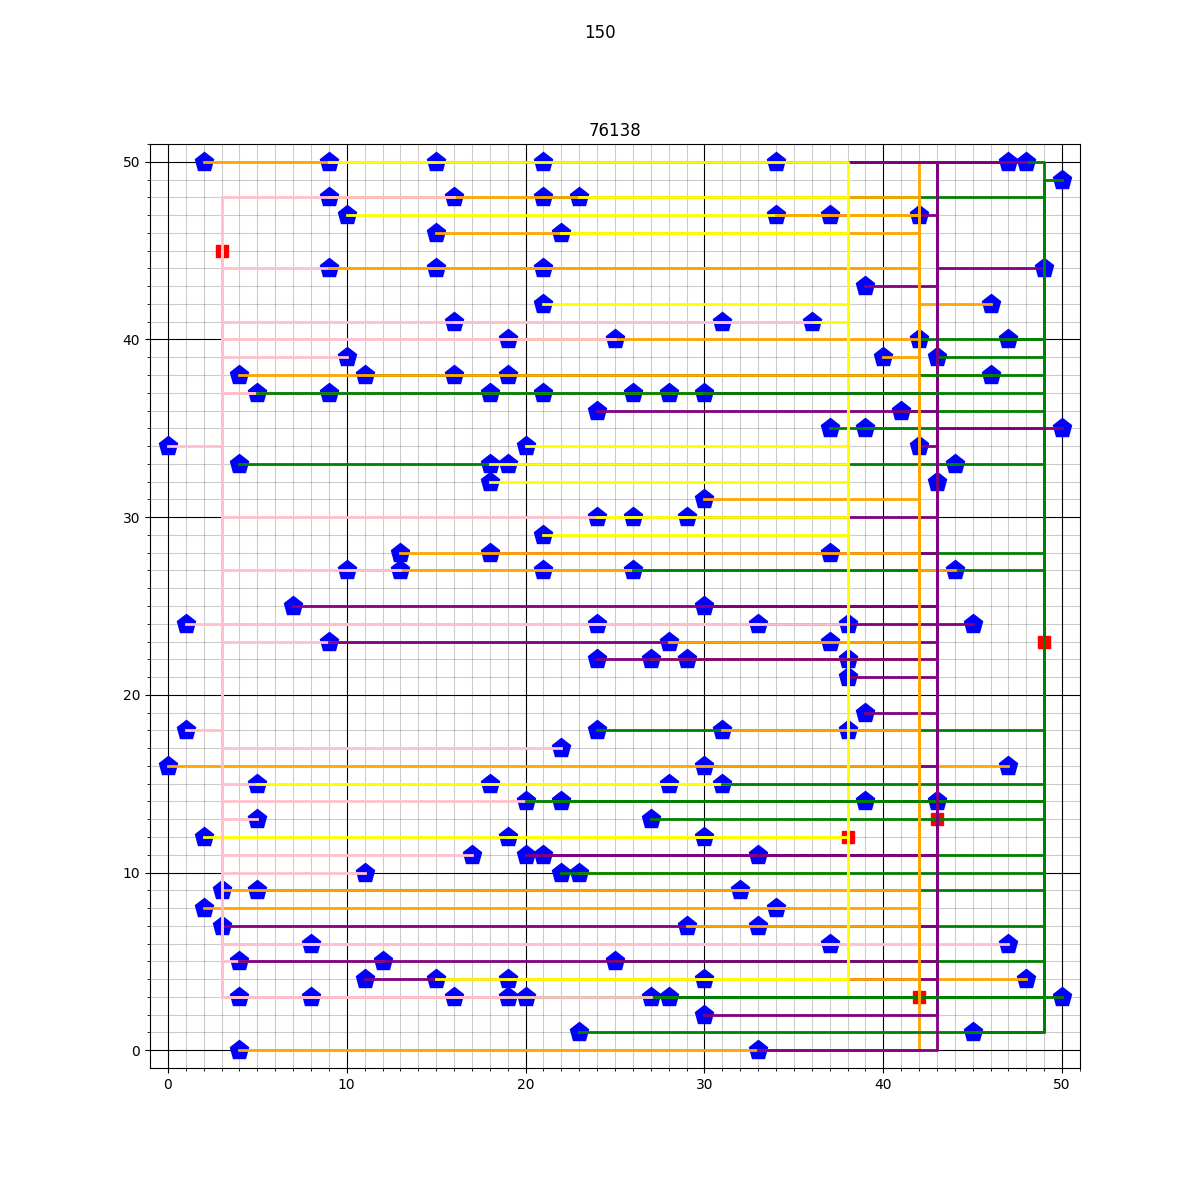
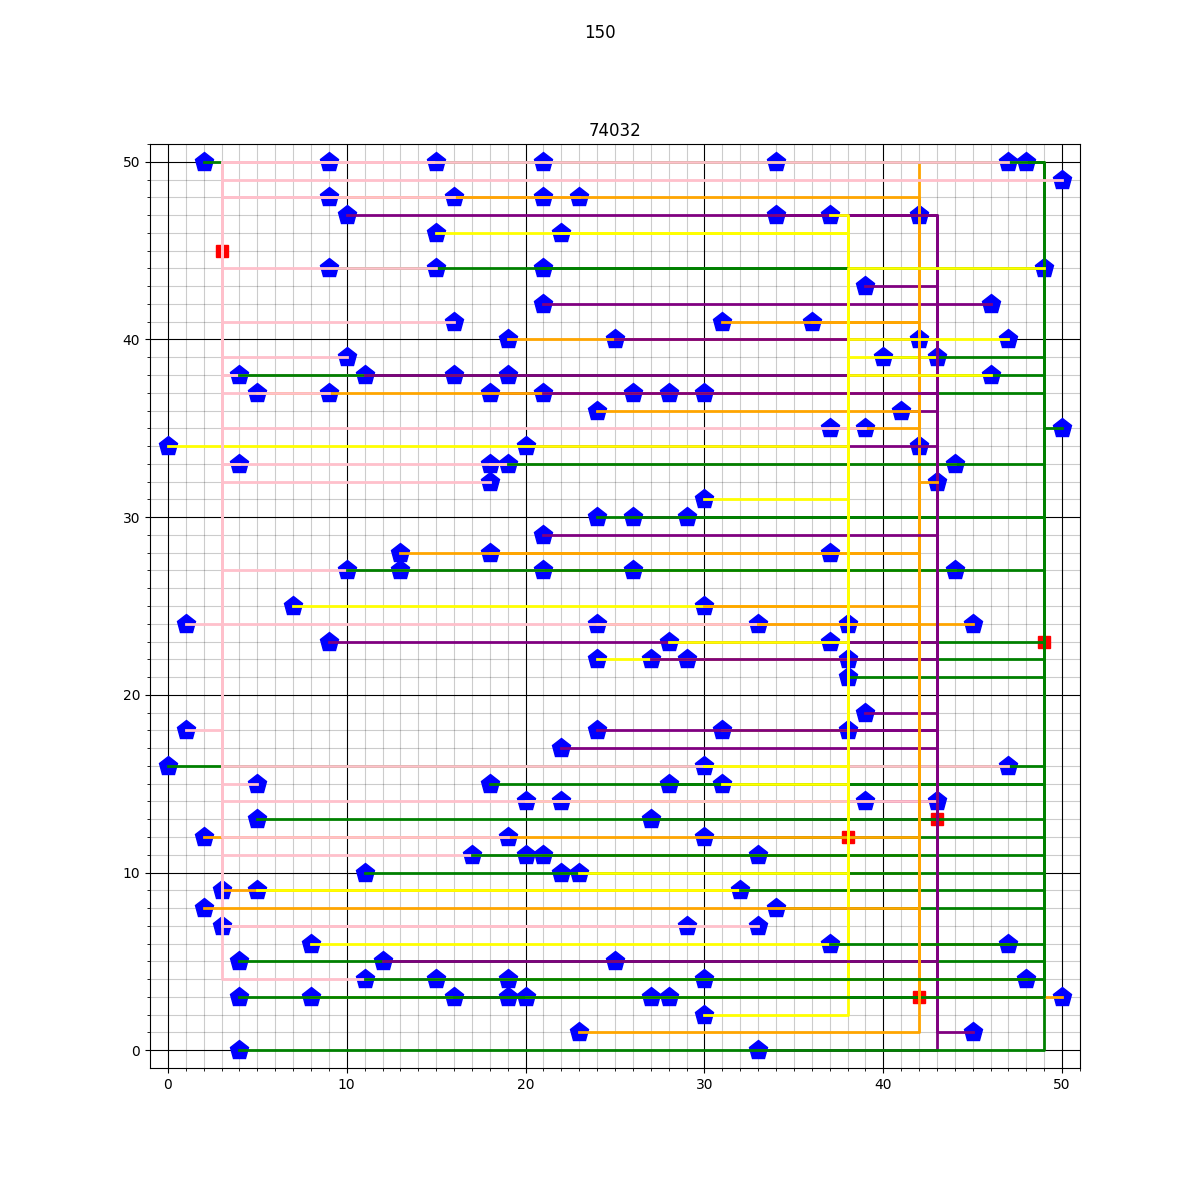
price plot

diff --git a/main.py b/main.py
@@ -2,6 +2,7 @@ import os, sys
 import csv
 import random
 from random import randrange
+import matplotlib.pyplot as plt
 
 directory = os.path.dirname(os.path.realpath(__file__))
 sys.path.append(os.path.join(directory, "code"))
@@ -21,45 +22,58 @@ from classObjective import Objective
 # create path names
 housePath = "data/district_1/district-1_houses.csv"
 batteryPath =  "data/district_1/district-1_batteries.csv"
+price_list = []
+iterations_list = []
+iteration = 0
 
-noFit = True
 
-while noFit:
+for i in range(0, 100):
 
-    # create house- and battery objects and store them in lists
-    houses = readHouse(housePath)
-    batteries = readBattery(batteryPath)
-    cables = []
+    noFit = True
+    while noFit:
 
-    random.shuffle(houses)
+        # create house- and battery objects and store them in lists
+        houses = readHouse(housePath)
+        batteries = readBattery(batteryPath)
+        cables = []
 
-    for house in houses:
-        random.shuffle(batteries)
+        random.shuffle(houses)
 
-        for battery in batteries:
-            if battery.checkHouse(house):
-                cable = battery.addHouse(house)
-                cables.append(cable)
-                break
+        for house in houses:
+            random.shuffle(batteries)
 
-    solution = Objective(cables, batteries)
-    current_price = solution.totalCost()
-    
-    print(f"battery0: {batteries[0].remainingCapacity()}")
-    print(f"battery1: {batteries[1].remainingCapacity()}")
-    print(f"battery2: {batteries[2].remainingCapacity()}")
-    print(f"battery3: {batteries[3].remainingCapacity()}")
-    print(f"battery4: {batteries[4].remainingCapacity()}")
-    print(f"last house output: {house.output}")
-    print(f"current price: {current_price}")
-    
-    totCableLength = 0
-    for cable in cables:
-        totCableLength += cable.calcLength()
-    
-    print(f"total cables {len(cables)}")
-    print()
-    noFit = len(cables) != len(houses)
+            for battery in batteries:
+                if battery.checkHouse(house):
+                    cable = battery.addHouse(house)
+                    cables.append(cable)
+                    break
 
-# plot district
-plot(housePath, batteryPath, cables, len(cables))
+        solution = Objective(cables, batteries)
+        current_price = solution.totalCost()
+        
+        # print(f"battery0: {batteries[0].remainingCapacity()}")
+        # print(f"battery1: {batteries[1].remainingCapacity()}")
+        # print(f"battery2: {batteries[2].remainingCapacity()}")
+        # print(f"battery3: {batteries[3].remainingCapacity()}")
+        # print(f"battery4: {batteries[4].remainingCapacity()}")
+        # print(f"last house output: {house.output}")
+        # print(f"current price: {current_price}")
+        # print(f"total cables {len(cables)}")
+        
+        totCableLength = 0
+        for cable in cables:
+            totCableLength += cable.calcLength()
+        
+        noFit = len(cables) != len(houses)
+        
+    iteration += 1
+    iterations_list.append(iteration)
+    price_list.append(current_price)
+    print(iteration)
+
+    # # plot district
+    # plot(housePath, batteryPath, cables, len(cables))
+
+
+plt.plot(iterations_list, price_list)
+plt.show()
